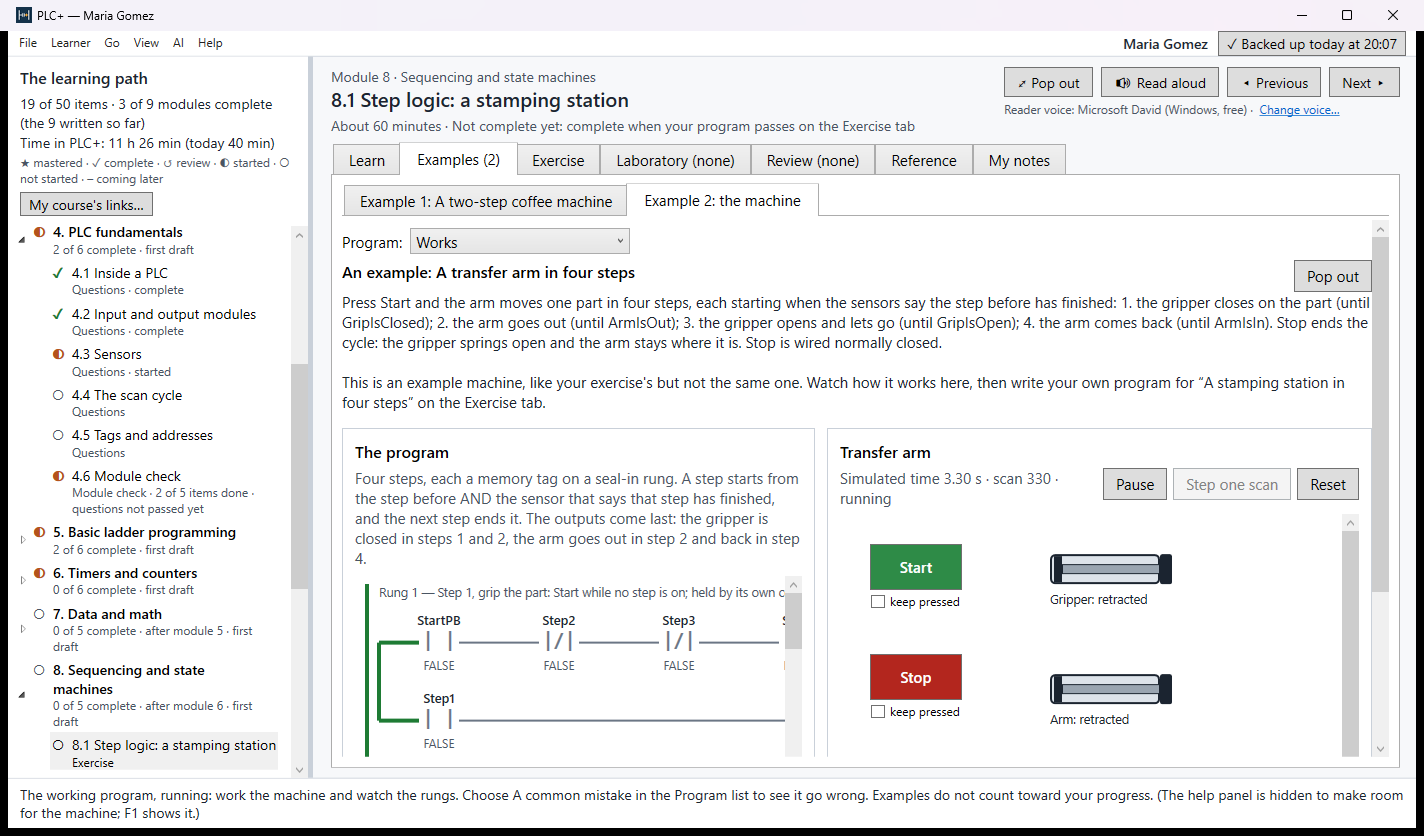
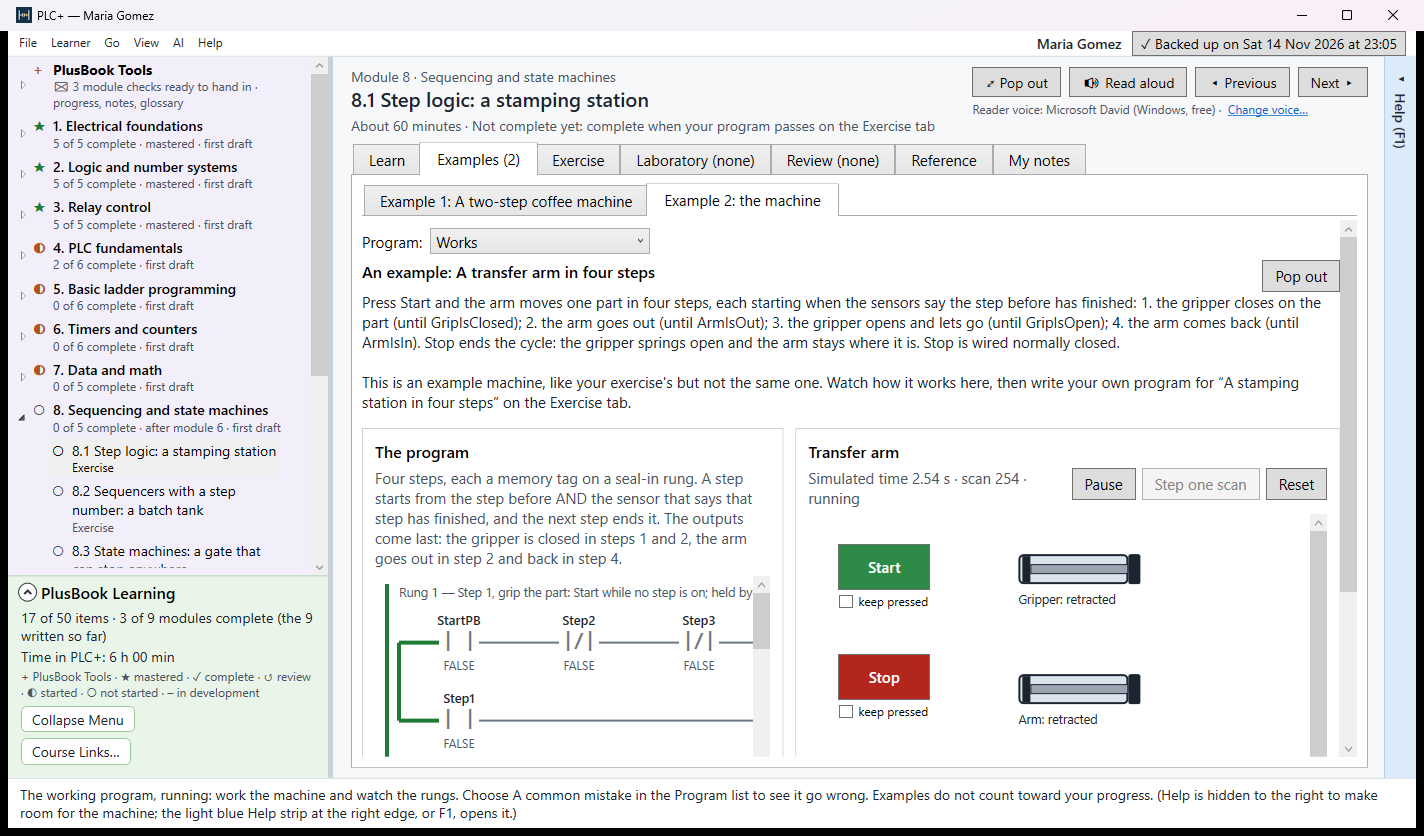
Store update 1.1.0 prepared (plan 12.12): PLCPlus_1.1.0.0_x64_bundle.msixupload with the real identity (DeanEaglin.PLC_xs303fgqvwdg8), nine screenshots retaken for the new window, the listing and testers' notes for 1.1.0; 1.0.1 superseded, never submitted; Ron's "Yes" to Who is learning? opening by 

diff --git a/docs/release/STORE-SUBMISSION.md b/docs/release/STORE-SUBMISSION.md
@@ -1,15 +1,20 @@
-# PLC+ — Microsoft Store submission (1.0.1, the instructors' release)
+# PLC+ — Microsoft Store submission (1.1.0, the instructors' release)
 
-**1.0.0.0 is already live on the Store** (Ron, 2026-11-17), hidden, for the instructors. **1.0.1** is an update to that
-product: the same identity and listing, a new package, and the listing, screenshots and notes refreshed for the textbook
-features. In Partner Center: PLC+ → **Update** (a new submission) → Packages, Store listings, then Submit.
+**1.0.0.0 is live on the Store** (Ron, 2026-11-17), hidden, for the instructors. **1.0.1** was prepared 2026-11-17 and **never
+submitted**; **1.1.0** replaces it (Ron, 2026-11-23: "Prepare an update package for PLC+"). It is an update to the same product:
+the same identity and listing, a new package, and the listing, screenshots and notes refreshed. It carries 1.0.1's textbook
+features (the seven tabs, examples to try, Read aloud, My notes and the Glossary, Ask the AI, Pop out) and the PlusBooks' new
+window (plan W.1–W.7: PlusBook Tools, PlusBook Learning folding down, Collapse Menu, help hiding to the right, the start screen
+in sections with About PlusBooks, "In development"), Help ▸ Send feedback (F.1), on Learning Core 1.10.2. In Partner Center:
+PLC+ → **Update** (a new submission) → Packages, Store listings, then Submit. If an unsubmitted 1.0.1 draft is still there,
+replace its package with 1.1.0's.
 
 Everything needed to put **PLC+** on the Microsoft Store, in order, with the values to type and the commands to run.
 Copied from Author+ (`..\AuthorPlus\docs\STORE-SUBMISSION.md`), which went through the same steps on 2026-11-05.
 
 **This release is for the PLC instructors who give feedback (D24, Ron 2026-11-05):** the listing is **hidden** — available
 only through its direct link, not found by searching the Store (§9, Availability). Modules 1–8 and 11 are written; 9, 10 and
-12 say "coming later".
+12 say "In development".
 
 Publisher account: publishing as **Dean Eaglin** (the same account as SMADA, Statistle, Author+ and the others).
 
@@ -26,15 +31,19 @@ Publisher account: publishing as **Dean Eaglin** (the same account as SMADA, Sta
 | ☑ | `packaging/make-store-assets.ps1` — every tile, listing image and `PLCPlus.ico`, drawn from one mark | 52 tiles, none over WACK's size cap |
 | ☑ | The icon: one rung of ladder logic in white on steel blue, the amber "+" as the coil | ⚠ Ron to look (`store/images/asset-contact-sheet.png`) |
 | ☑ | `src/Learning.Shell/app.manifest` — PerMonitorV2 (WACK needs it) | in the repo |
-| ☑ | Version **1.0.1** (`Directory.Build.props`, `PlcPlusVersion`); 1.0.0.0 is live | 2026-11-17 |
+| ☑ | Version **1.1.0** (`Directory.Build.props`, `PlcPlusVersion`); 1.0.0.0 is live; 1.0.1 never submitted | 2026-11-23 |
 | ☑ | A `.msixupload` builds end to end with the development identity (68.8 MB) | 2026-11-05 |
-| ☑ | **1.0.1 ships from `main` with the textbook features** (plan 13.2–13.16: the seven tabs, My notes, Ask the AI, the Reader and the Read link, the examples to try on the Example tab, Pop out for every tab) | 2026-11-17, Ron: "Prepare a release for PLC+" (plan 13.12) |
+| ☑ | **The textbook features, prepared as 1.0.1 and shipping in 1.1.0** (plan 13.2–13.16: the seven tabs, My notes, Ask the AI, the Reader and the Read link, the examples to try on the Example tab, Pop out for every tab) | 2026-11-17, Ron: "Prepare a release for PLC+" (plan 13.12) |
 | ☑ | Privacy page updated for Ask the AI and Google voices (effective 2026-11-17) | §4; deployed 2026-11-17 |
 | ☑ | Program page, help and testing guide say seven tabs and the new features | §4; deployed 2026-11-17 |
-| ☑ | Submission package built with the real identity: `artifacts\store\PLCPlus_1.0.1.0_x64_bundle.msixupload`, family name checked | §6, 2026-11-17 |
-| ☑ | WACK run and passing: **overall PASS, 23 of 24** on 1.0.1.0 (only Blocked executables, optional, from the .NET runtime) | §7, Ron 2026-11-17 20:29 (`artifacts\wack-report.xml`) |
-| ☑ | Nine screenshots, 1424 × 836, in `store/screenshots/`, retaken from the 1.0 package | §8, 2026-11-17 |
-| ☐ | Partner Center submission: package uploaded (Ron); listing (description, What's new, 19 features, short description, trademark), the nine screenshots in order and the testers' notes (Additional Testing Information) entered and saved by Claude 2026-11-17; visibility checked (hidden, direct link). **Ron: check, then Submit for certification** | §9 |
+| ☑ | (1.0.1, never submitted) package, WACK PASS 23 of 24, screenshots and listing prepared | 2026-11-17 |
+| ☑ | **1.1.0 ships from `main`** with the textbook features and the PlusBooks' new window (plan W.1–W.7, F.1); Release build, 373 tests and the content validator pass | 2026-11-23 |
+| ☑ | The privacy page has "Feedback you send" (plan F.3), live | 2026-11-23 |
+| ☑ | Program page, help and testing guide say 1.1.0 and the new window | §4; **committed, not deployed** (Ron deploys with the submission) |
+| ☑ | Submission package built with the real identity: `artifacts\store\PLCPlus_1.1.0.0_x64_bundle.msixupload` (69.2 MB), family name `DeanEaglin.PLC_xs303fgqvwdg8` checked | §6, 2026-11-23 |
+| ☐ | **WACK on 1.1.0.0 (Ron):** it needs administrator rights (a UAC prompt) and runs the program on screen for a few minutes, so it was left for Ron. Expected: overall PASS, 23 of 24 | §7 |
+| ☑ | Nine screenshots, 1424 × 836, in `store/screenshots/`, retaken from the 1.1.0 package's program (the new window; the start screen in sections) | §8, 2026-11-23 |
+| ☐ | **Ron: hand-test 18** (`docs/MANUAL-TESTING.md`), WACK, deploy SoftwarePlus (`.\deploy.ps1 -Only plcplus`), then in Partner Center: the 1.1.0 package, the listing (§11: description, What's new, 20 features), the nine screenshots in order, the testers' notes (§10), visibility hidden (direct link), **Submit** | §9 |
 
 **The deploy of the site (2026-11-17):** the PLC+ examples session's `deploy.ps1 -Only plcplus` failed on the server's install
 step (log `%LOCALAPPDATA%\SoftwarePlus\deploy\runs\20261117-164942-23896.log`), then Ron said go: deployed 20:19 the same day
@@ -82,8 +91,9 @@ cd ..\SoftwarePlus
 
 ## 5. The version
 
-`Directory.Build.props` → `<PlcPlusVersion>1.0.1</PlcPlusVersion>`. The package version is `1.0.1.0` (the Store needs the
-fourth part to be 0). Every later upload needs a higher version (1.0.1, …).
+`Directory.Build.props` → `<PlcPlusVersion>1.1.0</PlcPlusVersion>`. The package version is `1.1.0.0` (the Store needs the
+fourth part to be 0). Every later upload needs a higher version (1.1.1, 1.2.0, …). 1.1.0 is higher than 1.0.0.0 (live) and
+1.0.1.0 (prepared, never submitted).
 
 ## 6. Build the submission package
 
@@ -94,7 +104,7 @@ fourth part to be 0). Every later upload needs a higher version (1.0.1, …).
     -OutputDirectory artifacts\store
 ```
 
-Output: `artifacts\store\PLCPlus_1.0.1.0_x64_bundle.msixupload` (about 69 MB: the program, .NET, and the lessons, machines and
+Output: `artifacts\store\PLCPlus_1.1.0.0_x64_bundle.msixupload` (69.2 MB: the program, .NET, and the lessons, machines and
 questions in `content\plcplus-foundations`). The package is **unsigned** on purpose: the Store signs it. The content needs
 no signature of its own in this release, because it ships inside the package the Store signs (plan 12.5).
 
@@ -111,17 +121,20 @@ for a few minutes; leave the computer alone while it does. Expected, as for ever
 ## 8. Screenshots
 
 `store/screenshots/`, 1424 × 836 (Partner Center wants at least 1366 × 768), taken from the packaged program with PrintWindow
-and the sample learner "Maria Gomez" (retaken 2026-11-17 for the seven tabs; upload them in this order):
+and a sample learner "Maria Gomez" (modules 1–3 mastered, module 4 started; made in a test data folder with `PLCPLUS_DATA`
+and removed afterwards). Retaken 2026-11-23 from the 1.1.0 package's program for the new window: PlusBook Tools first in the
+path, the green PlusBook Learning block, the Help strip on the machine tabs, the start screen in sections. Upload them in this
+order:
 
 | # | File | Shows |
 |---|---|---|
-| 1 | `01-example-8-1.png` | an Example running: a transfer arm's step logic, the ladder live beside the machine |
+| 1 | `01-example-8-1.png` | an Example running: a transfer arm's step logic, the ladder live beside the machine (help hidden to the right) |
 | 2 | `02-example-7-1.png` | a counter and compare instructions with a thumbwheel and lamps |
 | 3 | `03-exercise-5-3.png` | an Exercise: the ladder editor and the garage door it controls |
-| 4 | `04-my-progress.png` | My progress: items, modules, outcomes, time, the module checks |
+| 4 | `04-my-progress.png` | My progress in PlusBook Tools: items, modules, outcomes, time, the module checks |
 | 5 | `05-module-3.png` | a module's first page: outcomes mastered, topics, items |
 | 6 | `06-hand-in.png` | Hand in a report: the signed PDF progress report |
-| 7 | `07-start.png` | Who is learning? — learners on a shared computer |
+| 7 | `07-start.png` | The start screen in sections: Who is learning?, Course Tools, Learner files, Help and information with About PlusBooks |
 | 8 | `08-try-it-6-1.png` | An example to try: an on-delay timer running live, with power flow and Inside the PLC |
 | 9 | `09-learn-5-2.png` | A Learn page: 🔊 Read beside the title, key terms, the button to try it on the Example tab |
 
@@ -181,7 +194,7 @@ Do not upload `asset-contact-sheet.png`; it is the proof sheet.
 
 ### Packages
 
-Upload `artifacts\store\PLCPlus_1.0.1.0_x64_bundle.msixupload` (the one built with the real identity, §6). Tick Windows 10/11 Desktop only.
+Upload `artifacts\store\PLCPlus_1.1.0.0_x64_bundle.msixupload` (the one built with the real identity, §6). Tick Windows 10/11 Desktop only.
 
 The Super hero art slot is left empty: the Store says it must not show the product's title, and both hero images do.
 The notes for the testers (§10) now go on Partner Center's **Additional Testing Information** page, not Submission options.
@@ -204,15 +217,15 @@ Paste the notes in §10 on the **Additional Testing Information** page, then **S
 > new version (the Microsoft Store), the optional Ask the AI on an item's My notes tab and the optional Google voices for Read
 > aloud. Those two work only after the user enters their own key from an AI company or Google in AI › AI settings, and send the
 > user's question and the lesson's text (the book's words), never the learner's name, progress or notes. Without a key they say
-> what they need and everything else works. Links to help pages open in the user's web browser.
+> what they need and everything else works. Links to help pages and Help › Send feedback open in the user's web browser.
 >
-> **How to try it.** On the first screen press New learner, type any name and a 4-digit PIN, and keep or skip the recovery
-> code. The learning path opens on the left. Choose Module 5 › 5.2, then the Examples tab: it opens on "Example 2: the machine",
+> **How to try it.** On the first screen open Who is learning? (the green section) and press New learner, type any name and a
+> 4-digit PIN, and keep or skip the recovery code. The modules open on the left, under PlusBook Tools. Choose Module 5 › 5.2, then the Examples tab: it opens on "Example 2: the machine",
 > where a working program runs a simulated pump; press Start and Stop on the machine. On 6.1's Examples tab, Example 1 is a small timer program running
 > live: hold Go down. The Exercise tab is the same machine with an empty program to build. Nothing needs
 > a sign-in, an account or a purchase.
 >
-> **Audience.** This 1.0.1 update is hidden (direct link) for the PLC instructors reviewing the course before students use it.
+> **Audience.** This 1.1.0 update is hidden (direct link) for the PLC instructors reviewing the course before students use it.
 >
 > **Privacy policy:** https://softwareplus.ai/plcplus/privacy/
 
@@ -264,6 +277,9 @@ Many learners can share one computer: each has a progress file locked with a PIN
 NOTES, A GLOSSARY AND AN OPTIONAL AI
 Keep your own notes on any paragraph; look up a key term in the Glossary. Ask the AI (optional, with a key of your own or your class's) answers a question about an item from its lesson.
 
+ROOM TO WORK
+The modules run down the left, with PlusBook Tools at the top: My progress, Hand in a report, My notes and the Glossary. Collapse Menu folds the path to one row per module, the PlusBook Learning block under it folds down to its title, and help hides to the right with one click (or F1), so a machine and its program get the whole window. Modules still being written say In development. The start screen is in sections: who is learning, tools that need no sign-in, the learners' files, and help, with a short page on what a PlusBook is. Help › Send feedback takes a note about a bug or an idea straight to the author.
+
 OFFLINE AND PRIVATE
 PLC+ works without an internet connection, has no accounts and no advertising, and sends nothing about you anywhere. Progress leaves the computer only as files you save yourself. The optional AI and Google voices send only your question and the book's words, and only once you have set them up with your own key.
 ```
@@ -285,6 +301,7 @@ Timers, counters, compares, math, set/reset and edges
 Find-the-fault machines and programs to fix
 IEC 61131-3 names, with the Allen-Bradley name beside each one
 Pop out any tab into a window of its own
+A window with room: the path folds and help hides to the right
 My progress: outcomes mastered, what to review, time on task
 Many learners on one computer, each with a PIN-locked progress file
 Signed PDF progress reports to hand in; instructors can check them
@@ -307,7 +324,11 @@ IEC 61131-3
 **What's new in this version**
 
 ```
-New in 1.0.1:
+New in 1.1.0:
+- A window with more room: PlusBook Tools (My progress, Hand in a report, My notes, the Glossary) at the top of the path; Collapse Menu folds the modules; the PlusBook Learning block folds down; help hides to the right with one click or F1.
+- The start screen in sections: Who is learning?, Course Tools (no sign-in), Learner files, and Help and information with About PlusBooks.
+- Modules still being written say In development.
+- Help › Send feedback: tell the author about a bug or an idea.
 - Seven tabs for each item: Learn, Example, Exercise, Laboratory (the lab exercise), Review (takeaways, key terms, flashcards, a self-test), Reference and My notes.
 - Examples to try on the Example tab, each with a figure: small programs running live, truth tables, bits and circuits.
 - Hear any page read aloud, with the part being read marked; a 🔊 Read link beside each lesson's title.
@@ -334,7 +355,7 @@ Ron Eaglin
 
 ☐ Copy the live link into the testing guide (`site/plcplus/testing/`, `store-link`) and the program's page; deploy.
 ☐ Send the instructors the testing guide's address (plan 12.10).
-☐ Tag the commit: `git tag v1.0.1` and push the tag (1.0.0 has no tag: its commit was not recorded).
+☐ Tag the commit: `git tag v1.1.0` and push the tag (1.0.0 has no tag: its commit was not recorded; 1.0.1 was never submitted).
 ☐ Note it in `docs/DEVELOPMENT-PLAN.md` (12.10), `CLAUDE.md` and `..\CLAUDE.md`.
 ☐ Try Help ▸ Check for a new version in the Store copy.
 

diff --git a/docs/DEVELOPMENT-PLAN.md b/docs/DEVELOPMENT-PLAN.md
@@ -58,7 +58,7 @@ SoftwarePlus.ai, where Ron marks it Implement or Discard. The site side is Softw
 
 | # | Task | Done when |
 |---|---|---|
-| F.1 | **Help ▸ Send feedback…** (beside Check for a new version; the same words in every program): opens `https://softwareplus.ai/feedback/?program=plcplus&version=<this version>` in the browser. Its tooltip: "Tell us about a bug, a suggestion or anything you noticed — it goes to Dr. Ron Eaglin." No form inside the program and no network code: the web page does the rest. The privacy policy gets the paragraph from SoftwarePlus 9.5 | ⚠ **Built 2026-11-23**: Help ▸ Send feedback… under Check for a new version, and **Send feedback…** in the start screen's Help and information section (no sign-in needed); `WebLinks.Feedback` = `https://softwareplus.ai/feedback/?program=plcplus&version=1.0.0` (the version from the program), tested. F.3 (the privacy page) is not done in this repo: it must be live before the release is submitted. Ron: hand-test 18 |
+| F.1 | **Help ▸ Send feedback…** (beside Check for a new version; the same words in every program): opens `https://softwareplus.ai/feedback/?program=plcplus&version=<this version>` in the browser. Its tooltip: "Tell us about a bug, a suggestion or anything you noticed — it goes to Dr. Ron Eaglin." No form inside the program and no network code: the web page does the rest. The privacy policy gets the paragraph from SoftwarePlus 9.5 | ⚠ **Built 2026-11-23**: Help ▸ Send feedback… under Check for a new version, and **Send feedback…** in the start screen's Help and information section (no sign-in needed); `WebLinks.Feedback` = `https://softwareplus.ai/feedback/?program=plcplus&version=1.1.0` (the version from the program), tested. F.3 (the privacy page) is not done in this repo: it must be live before the release is submitted. Ron: hand-test 18 |
 | F.2 | **Feedback marked Implement** for PLC+ (read from the inbox, SoftwarePlus 9.4) becomes tasks in this plan, each quoting the item, its date and version; the inbox marks them In plan | checked at the start of every round of work on PLC+ |
 | F.3 | **The privacy policy, in the same release as F.1** (Ron, 2026-11-20): PLC+'s page on SoftwarePlus.ai (`SoftwarePlus\site\plcplus\privacy\index.html`) gets the section "Feedback you send" from `SoftwarePlus\docs\FEEDBACK-SETUP.md` ("The privacy paragraph"), its effective date updated, and is deployed (`.\deploy.ps1 -Only plcplus`); any privacy text inside the program or in its Store listing says the same. A release with F.1 is not finished until this is done | the live privacy page has the section when the release with F.1 is submitted — ⚠ **Live 2026-11-23** (SoftwarePlus `fa26a89`): "Feedback you send" on the privacy page, effective date 2026-11-23, deployed with `-Only`. Ron: look before submitting |
 
@@ -302,7 +302,8 @@ un-wack.ps1`, needs administrator) — hand-test 11.4–11.5 |
 | 12.8 | **The instructors' testing guide** at `softwareplus.ai/plcplus/testing/`: what PLC+ is for and what to review; install from the Store link; a guided tour (a learner, a module, an example, an exercise, a check, a report, checking a report); what to try in each module; how to send feedback (the review site's comments, or e-mail); what is known to be missing. Help ▸ **Testing guide** in the program links to it. Pictures taken from the program with PrintWindow | ⚠ Built and deployed 2026-11-05 (noindex, not linked from the home page): what PLC+ is and what to judge; install (an element `store-link` waits for the Store link, which the invitation e-mail carries until then); a nine-step tour with seven pictures from the 1.0 package; one line per module; feedback on the review site or by e-mail; known limits. UX: walkthrough + heuristics (2026-11-05), 0 blockers, 3 major fixed (the install steps for a first-time Store user, the module check's place and its Check my answers, **a Store build is refused while `StorePage` is empty** so the Store copy's update check cannot ship broken), 8 minor fixed (F1, the recovery-code page, the Continue button, the first report's details and the result line, Choose… / Check and how to change a PDF, the lab paragraph, privacy wording, About cannot fail on a mistyped Store link), and an uninstall check added to hand-test 11.8. ⚠ Ron: read it as an instructor would (hand-test 11.2) |
 | 12.9 | The review site and the instructors' review guide (`docs/INSTRUCTOR-REVIEW.md`) changed to the Store install (the zip of the preview goes) | ⚠ Done 2026-11-05: `docs/INSTRUCTOR-REVIEW.md` says 1.0 is on the Store for the reviewers (install from the invitation's link, the testing guide), what it now has (learners, My progress, reports) and what it does not; `tools/make-review-site.py` no longer offers the zip (and removes it from the site); the review site's four pictures retaken from 1.0. Deploy with 12.7 |
 | 12.10 | Submitted by Ron; once live, the link goes in the testing guide and the guide is sent to the instructors | ⚠ Ron |
-| 12.11 | **1.0.1, an update with the textbook features, from `main`** (Ron, 2026-11-17: "Prepare a release for PLC+"; then "Release 1.0.0.0 is already on the store, we need 1.0.1") | ⚠ **Prepared 2026-11-17:** version 1.0.1 (`Directory.Build.props`), package `PLCPlus_1.0.1.0_x64_bundle.msixupload`; 1.0.0.0 is live, hidden (Ron). Before that, as 1.0: Release build, 352 + 15 tests and the content validator pass; `artifacts\store\PLCPlus_1.0.0.0_x64_bundle.msixupload` (69.2 MB) built with the real identity `DeanEaglin.PLC` (family name `DeanEaglin.PLC_xs303fgqvwdg8` checked; the package holds the 39 Learn programs, the modules and the glossary), and its program opens and runs (6.1's examples, the 5.2 machine, Close). Nine screenshots retaken from the package with a new sample learner (Maria Gomez, modules 1–3 mastered) in `C:\Users\Public\PLCPlus` (removed afterwards): the seven tabs, an example to try (8) and a Learn page with 🔊 Read (9). `STORE-SUBMISSION.md`: the listing (seven tabs, examples to try, Read aloud, notes and Glossary, the optional AI; 19 features), the testers' notes (the network now names Ask the AI and Google voices), the checklist. On softwareplus.ai (committed, **not deployed**): the privacy policy covers Ask the AI and Google voices (effective 2026-11-17; it said "sends nothing", which the optional AI made untrue), and the program page, help and testing guide say seven tabs and the new features. **Deployed 2026-11-17 on Ron's go** (run `20261117-201945-25976`, the -Reason without brackets; the earlier failure was the brackets in a -Reason); the package rebuilt from `493026d` (20:20). **WACK on the 1.0.1.0 package: overall PASS, 23 of 24** (Ron, 20:29; only Blocked executables, optional); the `.msixupload` built 20:24 from `43f7329`. Checked for the submission: nine screenshots 1424 × 836 showing the current tabs, the four listing images, the Store ID in About, privacy, page, testing guide and review site live; the testers' notes fixed (5.2's machine is a pump, and it opens on Example 2), Super hero art left empty, the notes on Additional Testing Information. ⚠ Ron: hand-tests 13–17; submit (§9). The testing guide's seven pictures still show four tabs (to retake) |
+| 12.11 | ~~**1.0.1, an update with the textbook features, from `main`** (Ron, 2026-11-17: "Prepare a release for PLC+"; then "Release 1.0.0.0 is already on the store, we need 1.0.1")~~ ❌ **Superseded by 1.1.0 (12.12), never submitted** (2026-11-23; its features ship in 1.1.0) | ⚠ **Prepared 2026-11-17:** version 1.0.1 (`Directory.Build.props`), package `PLCPlus_1.0.1.0_x64_bundle.msixupload`; 1.0.0.0 is live, hidden (Ron). Before that, as 1.0: Release build, 352 + 15 tests and the content validator pass; `artifacts\store\PLCPlus_1.0.0.0_x64_bundle.msixupload` (69.2 MB) built with the real identity `DeanEaglin.PLC` (family name `DeanEaglin.PLC_xs303fgqvwdg8` checked; the package holds the 39 Learn programs, the modules and the glossary), and its program opens and runs (6.1's examples, the 5.2 machine, Close). Nine screenshots retaken from the package with a new sample learner (Maria Gomez, modules 1–3 mastered) in `C:\Users\Public\PLCPlus` (removed afterwards): the seven tabs, an example to try (8) and a Learn page with 🔊 Read (9). `STORE-SUBMISSION.md`: the listing (seven tabs, examples to try, Read aloud, notes and Glossary, the optional AI; 19 features), the testers' notes (the network now names Ask the AI and Google voices), the checklist. On softwareplus.ai (committed, **not deployed**): the privacy policy covers Ask the AI and Google voices (effective 2026-11-17; it said "sends nothing", which the optional AI made untrue), and the program page, help and testing guide say seven tabs and the new features. **Deployed 2026-11-17 on Ron's go** (run `20261117-201945-25976`, the -Reason without brackets; the earlier failure was the brackets in a -Reason); the package rebuilt from `493026d` (20:20). **WACK on the 1.0.1.0 package: overall PASS, 23 of 24** (Ron, 20:29; only Blocked executables, optional); the `.msixupload` built 20:24 from `43f7329`. Checked for the submission: nine screenshots 1424 × 836 showing the current tabs, the four listing images, the Store ID in About, privacy, page, testing guide and review site live; the testers' notes fixed (5.2's machine is a pump, and it opens on Example 2), Super hero art left empty, the notes on Additional Testing Information. ⚠ Ron: hand-tests 13–17; submit (§9). The testing guide's seven pictures still show four tabs (to retake) |
+| 12.12 | **1.1.0, the update with the textbook features and the PlusBooks' new window, from `main`** (Ron, 2026-11-23: "Prepare an update package for PLC+"). 1.0.0.0 is live, hidden; 1.0.1 was never submitted, so 1.1.0 carries its features (the seven tabs, examples to try, Read aloud, My notes and the Glossary, Ask the AI, Pop out) and W.1–W.7 and F.1 | ⚠ **Prepared 2026-11-23:** version 1.1.0 (`Directory.Build.props`, package 1.1.0.0). Release build, 373 tests (352 + 15 + 6) and the content validator pass. `artifacts\store\PLCPlus_1.1.0.0_x64_bundle.msixupload` (69.2 MB) built with the real identity `DeanEaglin.PLC`; family name `DeanEaglin.PLC_xs303fgqvwdg8` checked. The package is unsigned (the Store signs it), so it was not installed; its own program (`artifacts\stage\PLCPlus.exe`) was run and opens on the new start screen and window. Nine Store screenshots retaken from it (1424 × 836; sample learner Maria Gomez in a test data folder, removed afterwards): the new window, the Help strip on the machine tabs, the start screen in sections (7). `docs/release/STORE-SUBMISSION.md` for 1.1.0: the checklist, §5/§6/§9 paths, the listing (ROOM TO WORK, 20 features, What's new in 1.1.0 with 1.0.1's features), the testers' notes. SoftwarePlus `site/plcplus/` (program page, help, testing guide and its pictures) committed `3c4e959`, **not deployed**. **WACK not run**: it needs a UAC prompt and runs the program on screen. Ron: hand-test 18, WACK if not run, then submit (§9) |
 
 ## Phase 13 — after the instructors' feedback (spec Phase 2, the rest)
 
@@ -354,7 +355,7 @@ the books as we release new versions."* Built and tested first in WebDevelopment
 | W.6 | **"In development"** for a module still to come (Ron, 2026-11-23: "'In development' is better wording in the program. Coming soon is OK for a website"; Learning Core plan W.6): the path, a module's page, My progress, the key; Learning Core 1.10.2's `Dashboard.Words` says it | ⚠ **Built 2026-11-23** from PythonProgramming+ `8e15f27`/`3de32ec` and WebDevelopment+. UX: walkthrough + heuristics, 2 major and 8 minor findings; fixed: Who is learning? opens when the start screen comes back with a message or has no learners, PlusBook Tools says when a report is ready (and the welcome back line), a module in development says what to do next, help steps aside for each learner's first machine, the testing guide's menu words; seen in the running window (PrintWindow + UI Automation). 373 tests (6 new window tests, `tests/Learning.Shell.Tests/WindowRoomTests.cs`). Ron: hand-test 18. Modules 9, 10 and 12 say In development in the path, on their page (with what to do next) and in My progress; "Modules 1 to 8 and 11 are written; 9, 10 and 12 are in development" |
 | W.7 | **Move to Learning Core 1.10.2** (from 1.5.0; `Eaglin.Learning.Core` and `.Reports.Pdf`): the Example splitter is the core's now, so PLC+'s copy (`Plc.Grading/ExamplePages.cs`) is gone | ⚠ **Built 2026-11-23** from PythonProgramming+ `8e15f27`/`3de32ec` and WebDevelopment+. UX: walkthrough + heuristics, 2 major and 8 minor findings; fixed: Who is learning? opens when the start screen comes back with a message or has no learners, PlusBook Tools says when a report is ready (and the welcome back line), a module in development says what to do next, help steps aside for each learner's first machine, the testing guide's menu words; seen in the running window (PrintWindow + UI Automation). 373 tests (6 new window tests, `tests/Learning.Shell.Tests/WindowRoomTests.cs`). Ron: hand-test 18. Nothing else changed in PLC+; AI Manager stays 1.9.0 (the latest) |
 
-## Open questions for Ron — 14 answered 2026-11-04; one asked 2026-11-05 (waits for the faculty's use cases); one asked 2026-11-18
+## Open questions for Ron — 14 answered 2026-11-04; one asked 2026-11-05 (waits for the faculty's use cases); one asked 2026-11-18; one answered 2026-11-23
 
 1. ~~**The name.**~~ **PLC+** in front of people; `PLCPlus` in code, folders and the exe. Changed in the program 2026-11-04;
    Ron reserved it in Partner Center the same day (11.1).
@@ -384,6 +385,9 @@ the books as we release new versions."* Built and tested first in WebDevelopment
 16. **Which tools go under Tools** (asked 2026-11-18, plan 13.17), opened from the start screen with no learner? *Ron: not
     decided yet.* Candidates: a free ladder editor on any machine, the number converter, the truth table and logic rung, the
     Ohm's law circuit, Check a report.
+17. ~~**Who is learning? opening by itself**~~ (asked 2026-11-23, from the UX review of W.5: the start screen comes back after a
+   lock or Switch learner with a message to type a PIN, so Who is learning? opens by itself; the other books always start
+   folded). *Ron, 2026-11-23: "Yes."* It is now a PlusBook standard (Learning Core plan W.7). Built in W.5 already; no code change.
 
 ---
 

diff --git a/docs/MANUAL-TESTING.md b/docs/MANUAL-TESTING.md
@@ -15,14 +15,14 @@ Record each step as ✅ / ❌ with a note. A ❌ or a note goes back into `docs/
 
 ## Hand-test 18 — the window's room, In development and Send feedback (plan W.1–W.7, F.1), 2026-11-23
 
-**On `main`**, `manual-test\PLCPlus.exe` (rebuilt 2026-11-23 with the command at the top). Use a test folder of learners, as in
+**On `main`**, `manual-test\PLCPlus.exe` (rebuilt 2026-11-23 as version 1.1.0, the Store update, with the command at the top). Use a test folder of learners, as in
 hand-test 12, or make a new learner and remove it afterwards.
 
 1. **The start screen (W.5).** Four sections: Who is learning? (green), Course Tools (no login required) (amber), Learner files
    (lavender), all three folded, and Help and information (blue) open at the bottom. Choose each section's name: does it open and
    fold? Are the colours easy to tell apart, and the buttons clear?
 2. **About PlusBooks and Send feedback (W.5, F.1).** In Help and information, the softwareplus.ai/plusbooks link opens the PlusBooks
-   page. **Send feedback…** opens the feedback form in your browser: does it name PLC+ and version 1.0.0? (Close it without sending.)
+   page. **Send feedback…** opens the feedback form in your browser: does it name PLC+ and version 1.1.0? (Close it without sending.)
    Testing guide (for instructors) still opens the testing guide.
 3. **Signing in.** Open Who is learning?, choose a learner, type the PIN, Open. Then Learner ▸ Switch learner: the start screen
    comes back with Who is learning? already open, so you can choose a name straight away.

diff --git a/CLAUDE.md b/CLAUDE.md
@@ -61,8 +61,10 @@ Center, WACK, then the submission (hidden, direct link).
 **The window's room (plan W.1–W.7) and Help ▸ Send feedback (F.1) built 2026-11-23** for the next release, from PythonProgramming+ and
 WebDevelopment+: PlusBook Tools first in the path, the PlusBook Learning block under it folding down, Collapse Menu, help hiding to the
 right with a light blue strip, the start screen in coloured sections with About PlusBooks and Send feedback, "In development" for modules
-9, 10 and 12, on **Learning Core 1.10.2**; window tests in `tests/Learning.Shell.Tests`; 373 tests; ⚠ Ron: hand-test 18. F.3 (the
-privacy page on SoftwarePlus.ai) must be live before that release is submitted.
+9, 10 and 12, on **Learning Core 1.10.2**; window tests in `tests/Learning.Shell.Tests`; 373 tests. F.3 (the privacy page) is live.
+**Store update 1.1.0 prepared 2026-11-23** (plan 12.12; 1.0.0.0 is live, hidden; 1.0.1 was never submitted and is superseded):
+`artifacts\store\PLCPlus_1.1.0.0_x64_bundle.msixupload` with the real identity, nine new screenshots, the listing and testers' notes in
+`docs/release/STORE-SUBMISSION.md`, softwareplus.ai/plcplus committed, not deployed. ⚠ Ron: hand-test 18, WACK, deploy, submit.
 
 **The goal now (Ron, 2026-11-05, D24): the instructors' release.** PLC+ 1.0 on the Microsoft Store, hidden (direct link only), for
 the PLC instructors who give feedback; modules 1–8 and 11 written; a testing guide at softwareplus.ai/plcplus/testing/. Plan phases
